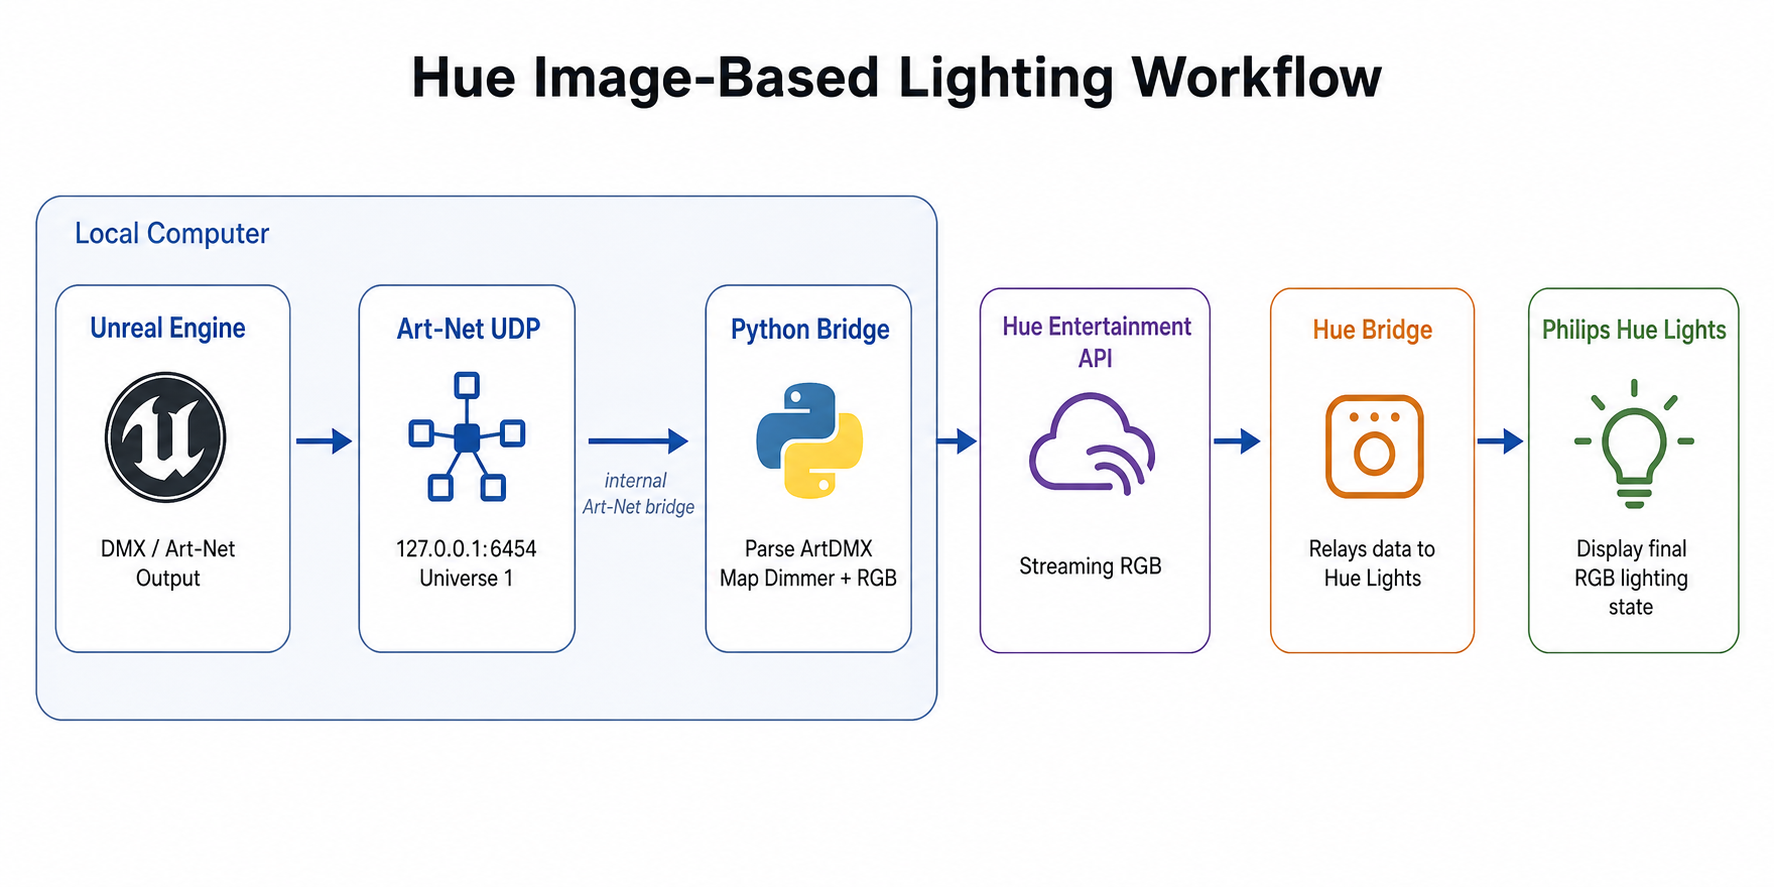
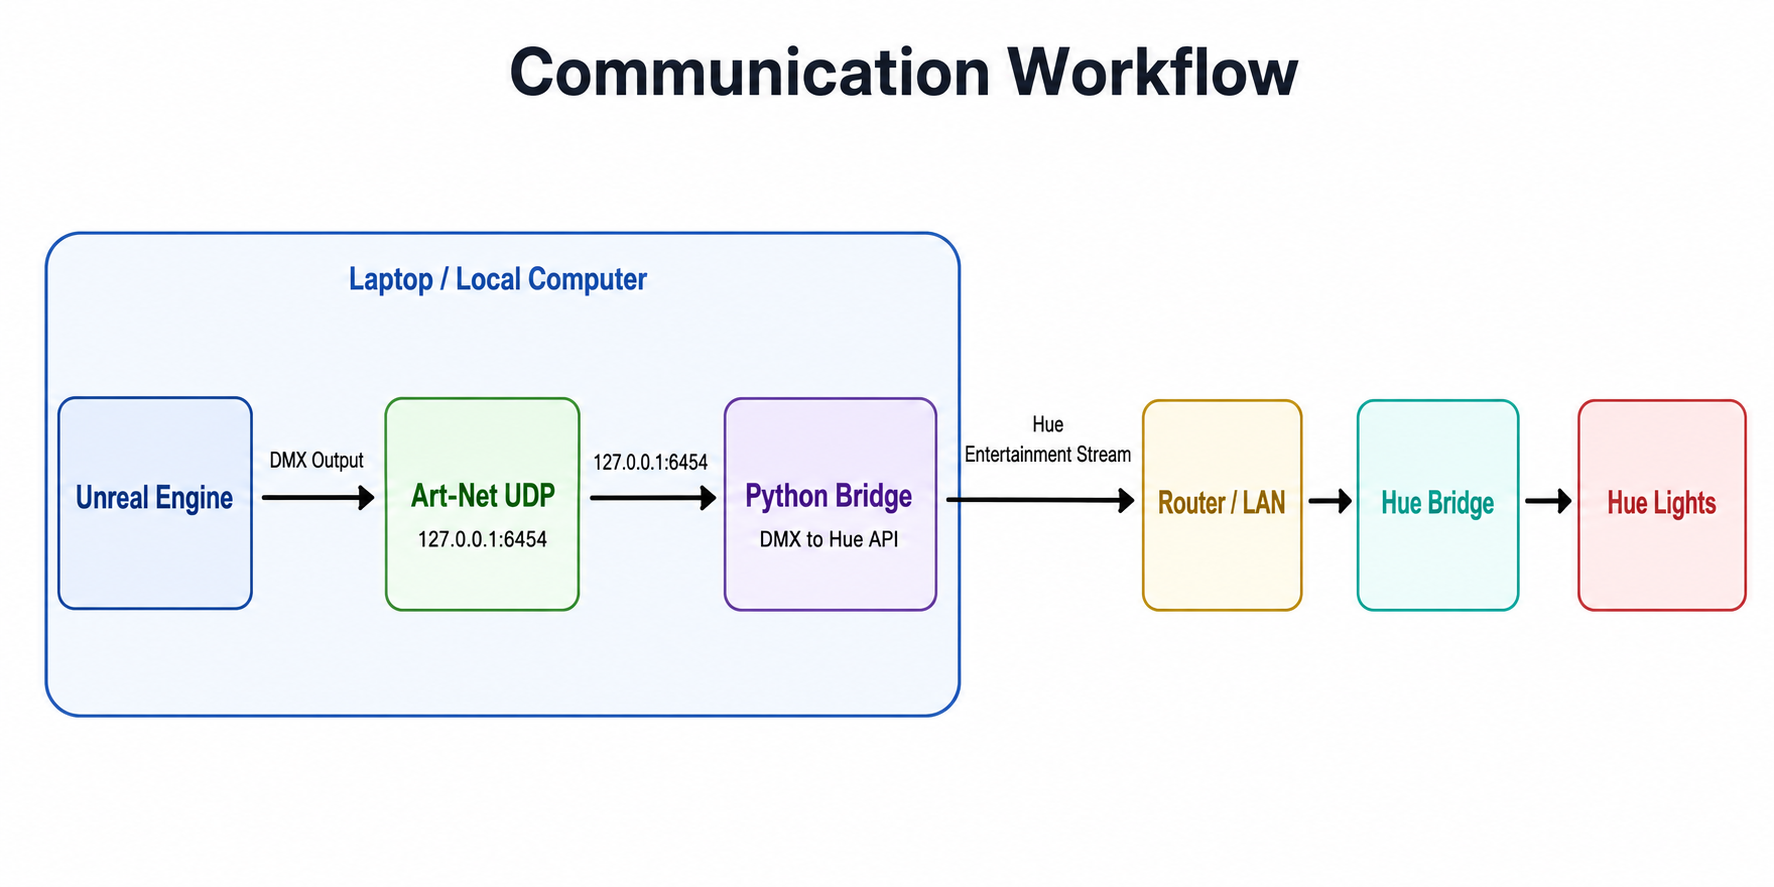
Split workflow visuals by overview communication and hardware

diff --git a/docs/communication-workflow.md b/docs/communication-workflow.md
@@ -4,6 +4,10 @@ This project connects Unreal Engine DMX output to Philips Hue Entertainment stre
 
 Important distinction: the Hue Bridge does **not** receive DMX or Art-Net directly. DMX/Art-Net exists only between Unreal Engine and the Python bridge. The Python bridge then sends Hue Entertainment API messages to the Hue Bridge.
 
+![Communication Workflow](images/communication-workflow.png)
+
+The generated image is intended for quick reading. The Mermaid diagram below is the editable source-of-truth version.
+
 ```mermaid
 flowchart LR
   subgraph LOCAL[Local Computer]
@@ -45,7 +49,7 @@ Use `127.0.0.1` as the Unreal Art-Net destination when Unreal Engine and the Pyt
 
 ## Public Overview Image
 
-The rendered overview image lives at:
+The rendered communication workflow image lives at:
 
 ```text
 docs/images/communication-workflow.png

diff --git a/README.md b/README.md
@@ -2,7 +2,7 @@
 
 `hue-dmx-IBL` is an architecture reference and bridge template for driving Philips Hue lights from Unreal Engine using DMX over Art-Net.
 
-![Hue Image-Based Lighting Workflow](docs/images/communication-workflow.png)
+![hue-dmx-IBL Overview](docs/images/overview-workflow.png)
 
 ## Communication Workflow
 
@@ -44,6 +44,9 @@ docs/
   troubleshooting.md
   unreal-setup.md
   images/
+    overview-workflow.png
+    communication-workflow.png
+    hardware-network-workflow.png
 
 unreal-template/
   README.md                  Template distribution notes and download link slot

diff --git a/docs/overview.md b/docs/overview.md
@@ -2,6 +2,8 @@
 
 `hue-dmx-IBL` documents an image-based lighting workflow where Unreal Engine drives Philips Hue fixtures through DMX over Art-Net.
 
+![hue-dmx-IBL Overview](images/overview-workflow.png)
+
 The key design decision is to keep Unreal Engine responsible for lighting content and DMX output, while the Python bridge handles protocol translation from Art-Net packets to Hue Entertainment streaming calls.
 
 The Hue Bridge is not a DMX receiver. It receives Hue Entertainment API stream data from the Python bridge, then controls the Hue lights.

diff --git a/docs/hardware-workflow.md b/docs/hardware-workflow.md
@@ -2,6 +2,10 @@
 
 This view shows the physical devices involved in the setup.
 
+![Hardware / Network Workflow](images/hardware-network-workflow.png)
+
+The generated image is intended for quick reading. The Mermaid diagram below is the editable source-of-truth version.
+
 ```mermaid
 flowchart LR
   LAPTOP[Laptop<br/>Unreal Engine + Python Bridge]
